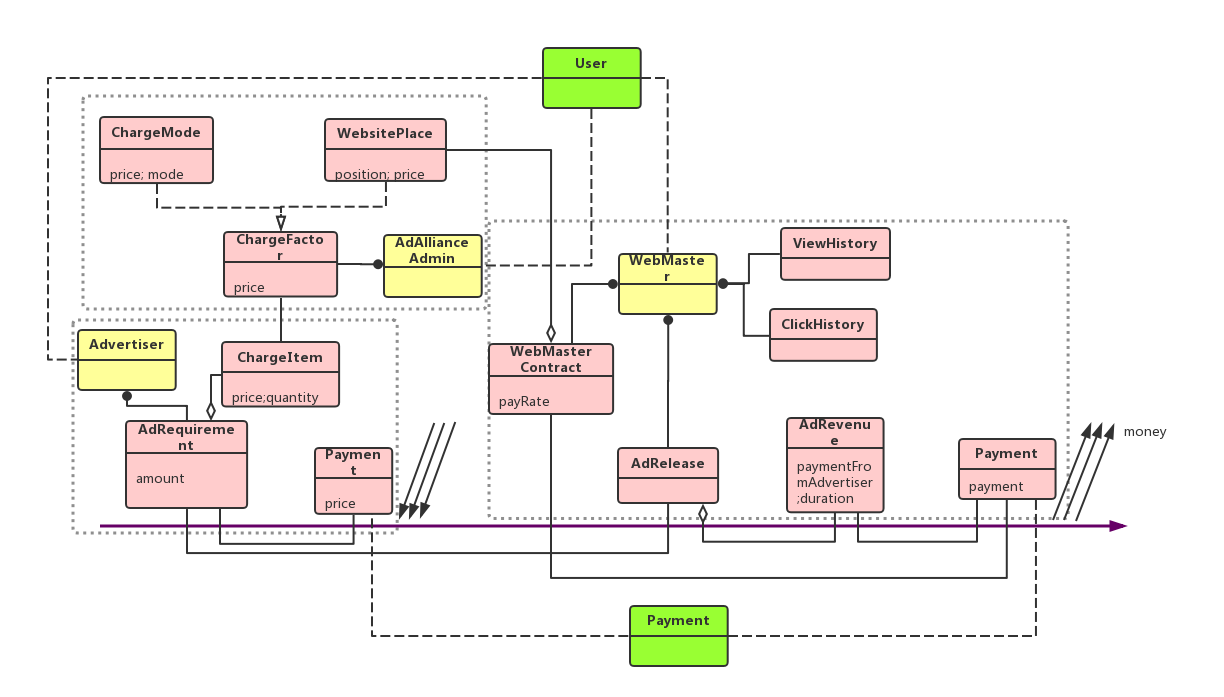
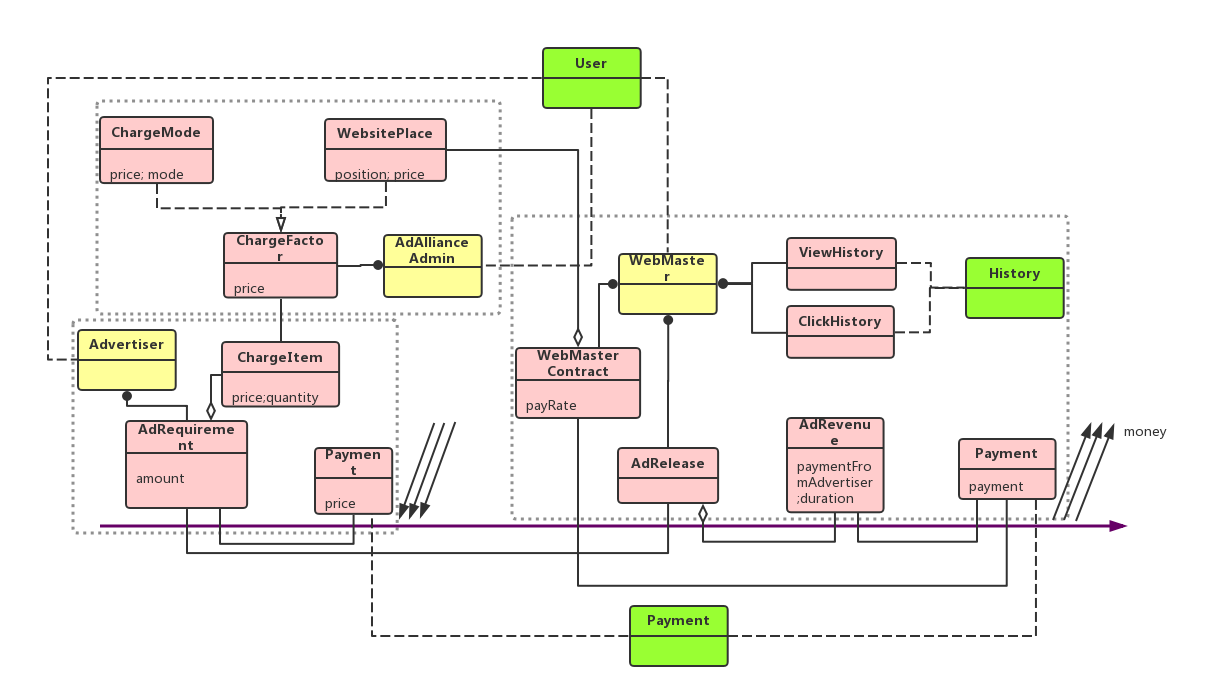
api: ad charge platform - charge factors, webmaster contracts, histories  related api

diff --git a/api/adChargePlatform/doc/api.html b/api/adChargePlatform/doc/api.html
@@ -144,7 +144,11 @@
       }
     </style></head><body data-spy="scroll" data-target="#sidebar"><div class="container"><div class="row"><div class="col-md-9" role="main"><div class="page-header"><h1>ad charge API documentation <small>version v1</small></h1><p></p></div><div class="panel panel-default"><div class="panel-heading"><h3 id="users_uid_ad_requirements" class="panel-title">/users/uid/ad_requirements</h3></div><div class="panel-body"><div class="panel-group"><div class="panel panel-white"><div class="panel-heading"><h4 class="panel-title"><a class="collapsed" data-toggle="collapse" href="#panel_users_uid_ad_requirements"><span class="parent"></span>/users/uid/ad_requirements</a> <span class="methods"><a href="#users_uid_ad_requirements_post"><span class="badge badge_post">post</span></a> <a href="#users_uid_ad_requirements_get"><span class="badge badge_get">get</span></a></span></h4></div><div id="panel_users_uid_ad_requirements" class="panel-collapse collapse"><div class="panel-body"><div class="list-group"><div onclick="window.location.href = '#users_uid_ad_requirements_post'" class="list-group-item"><span class="badge badge_post">post</span><div class="method_description"><p>advertiser can post ad requirements</p></div><div class="clearfix"></div></div><div onclick="window.location.href = '#users_uid_ad_requirements_get'" class="list-group-item"><span class="badge badge_get">get</span><div class="method_description"><p>advertiser can get all ad requirements</p></div><div class="clearfix"></div></div></div></div></div><div class="modal fade" tabindex="0" id="users_uid_ad_requirements_post"><div class="modal-dialog"><div class="modal-content"><div class="modal-header"><button type="button" class="close" data-dismiss="modal" aria-hidden="true">&times;</button><h4 class="modal-title" id="myModalLabel"><span class="badge badge_post">post</span> <span class="parent"></span>/users/uid/ad_requirements</h4></div><div class="modal-body"><div class="alert alert-info"><p>advertiser can post ad requirements</p></div><ul class="nav nav-tabs"><li class="active"><a href="#users_uid_ad_requirements_post_request" data-toggle="tab">Request</a></li><li><a href="#users_uid_ad_requirements_post_response" data-toggle="tab">Response</a></li></ul><div class="tab-content"><div class="tab-pane active" id="users_uid_ad_requirements_post_request"><h3>Body</h3><p><strong>Type: application/json</strong></p><p><strong>Example</strong>:</p><pre><code>{
 	"ad_content": "ad_content id",
-	"charge_items": ["itemId", "itemId"]
+	"charge_items": ["itemId", "itemId"],
+	"websites":[
+		"tieba.baidu.com",
+		"jingyan.baidu.com"
+	]
 }</code></pre></div><div class="tab-pane" id="users_uid_ad_requirements_post_response"><h2>HTTP status code <a href="http://httpstatus.es/201" target="_blank">201</a></h2><h3>Headers</h3><ul><li><strong>location</strong>: <em>(string)</em><p><strong>Example</strong>:</p><pre>users/uid/ad_requirements/adid</pre></li></ul><h2>HTTP status code <a href="http://httpstatus.es/400" target="_blank">400</a></h2><h2>HTTP status code <a href="http://httpstatus.es/403" target="_blank">403</a></h2><p>current user is not uid</p></div></div></div></div></div></div><div class="modal fade" tabindex="0" id="users_uid_ad_requirements_get"><div class="modal-dialog"><div class="modal-content"><div class="modal-header"><button type="button" class="close" data-dismiss="modal" aria-hidden="true">&times;</button><h4 class="modal-title" id="myModalLabel"><span class="badge badge_get">get</span> <span class="parent"></span>/users/uid/ad_requirements</h4></div><div class="modal-body"><div class="alert alert-info"><p>advertiser can get all ad requirements</p></div><ul class="nav nav-tabs"><li class="active"><a href="#users_uid_ad_requirements_get_response" data-toggle="tab">Response</a></li></ul><div class="tab-content"><div class="tab-pane active" id="users_uid_ad_requirements_get_response"><h2>HTTP status code <a href="http://httpstatus.es/200" target="_blank">200</a></h2><h3>Body</h3><p><strong>Type: application/json</strong></p><p><strong>Example</strong>:</p><pre><code>[{
 	"id": "id fo ad requirement",
 	"total_price": 4324,
@@ -166,14 +170,18 @@
 		},
 		{
 			"id": "item id2",
-			"charge_factor": "factor id, eg. banner_and_homepage_of_tieba.baidu.com_id",
+			"charge_factor": "factor id, eg. banner_and_homepage_id",
 			"quantity": 1	
 		},
 		{
 			"id": "item id3",
-			"charge_factor": "factor id, eg. sidebar_of_tieba.baidu.com_id",
+			"charge_factor": "factor id, eg. sidebar_id",
 			"quantity": 1	
 		}
+	],
+	"websites":[
+		"tieba.baidu.com",
+		"jingyan.baidu.com"
 	],
 	"links": [{
 		"rel": "self",
@@ -183,4 +191,118 @@
 	"account": "bankcard id",
 	"password": "xxxx",
 	"price": 4324
-}</code></pre></div><div class="tab-pane" id="users_uid_ad_requirements_adid_payment_post_response"><h2>HTTP status code <a href="http://httpstatus.es/201" target="_blank">201</a></h2><h3>Headers</h3><ul><li><strong>location</strong>: <em>(string)</em><p><strong>Example</strong>:</p><pre>users/uid/ad_requirements/adid</pre></li></ul><h2>HTTP status code <a href="http://httpstatus.es/400" target="_blank">400</a></h2><h2>HTTP status code <a href="http://httpstatus.es/403" target="_blank">403</a></h2><p>current user is not uid</p><h2>HTTP status code <a href="http://httpstatus.es/404" target="_blank">404</a></h2><p>adid not exists;</p><h2>HTTP status code <a href="http://httpstatus.es/409" target="_blank">409</a></h2><p>has paid before</p></div></div></div></div></div></div></div></div></div></div></div><div class="col-md-3"><div id="sidebar" class="hidden-print affix" role="complementary"><ul class="nav nav-pills nav-stacked"><li><a href="#users_uid_ad_requirements">/users/uid/ad_requirements</a></li></ul></div></div></div></div></body></html>
+}</code></pre></div><div class="tab-pane" id="users_uid_ad_requirements_adid_payment_post_response"><h2>HTTP status code <a href="http://httpstatus.es/201" target="_blank">201</a></h2><h3>Headers</h3><ul><li><strong>location</strong>: <em>(string)</em><p><strong>Example</strong>:</p><pre>users/uid/ad_requirements/adid</pre></li></ul><h2>HTTP status code <a href="http://httpstatus.es/400" target="_blank">400</a></h2><h2>HTTP status code <a href="http://httpstatus.es/403" target="_blank">403</a></h2><p>current user is not uid</p><h2>HTTP status code <a href="http://httpstatus.es/404" target="_blank">404</a></h2><p>adid not exists;</p><h2>HTTP status code <a href="http://httpstatus.es/409" target="_blank">409</a></h2><p>has paid before</p></div></div></div></div></div></div></div></div></div></div><div class="panel panel-default"><div class="panel-heading"><h3 id="charge_factors" class="panel-title">/charge_factors</h3></div><div class="panel-body"><div class="panel-group"><div class="panel panel-white"><div class="panel-heading"><h4 class="panel-title"><a class="collapsed" data-toggle="collapse" href="#panel_charge_factors_charge_modes"><span class="parent">/charge_factors</span>/charge_modes</a> <span class="methods"><a href="#charge_factors_charge_modes_post"><span class="badge badge_post">post</span></a> <a href="#charge_factors_charge_modes_get"><span class="badge badge_get">get</span></a></span></h4></div><div id="panel_charge_factors_charge_modes" class="panel-collapse collapse"><div class="panel-body"><div class="list-group"><div onclick="window.location.href = '#charge_factors_charge_modes_post'" class="list-group-item"><span class="badge badge_post">post</span><div class="method_description"><p>ad alliance admin add a new charge mode for advertiser to choose.</p></div><div class="clearfix"></div></div><div onclick="window.location.href = '#charge_factors_charge_modes_get'" class="list-group-item"><span class="badge badge_get">get</span><div class="method_description"><p>user can get all charge modes available</p></div><div class="clearfix"></div></div></div></div></div><div class="modal fade" tabindex="0" id="charge_factors_charge_modes_post"><div class="modal-dialog"><div class="modal-content"><div class="modal-header"><button type="button" class="close" data-dismiss="modal" aria-hidden="true">&times;</button><h4 class="modal-title" id="myModalLabel"><span class="badge badge_post">post</span> <span class="parent">/charge_factors</span>/charge_modes</h4></div><div class="modal-body"><div class="alert alert-info"><p>ad alliance admin add a new charge mode for advertiser to choose.</p></div><ul class="nav nav-tabs"><li class="active"><a href="#charge_factors_charge_modes_post_request" data-toggle="tab">Request</a></li><li><a href="#charge_factors_charge_modes_post_response" data-toggle="tab">Response</a></li></ul><div class="tab-content"><div class="tab-pane active" id="charge_factors_charge_modes_post_request"><h3>Body</h3><p><strong>Type: application/json</strong></p><p><strong>Example</strong>:</p><pre><code>{
+	"type": "CPT | CPC | CPM",
+	"unitPrice": 15,
+	"description": "..."
+}</code></pre></div><div class="tab-pane" id="charge_factors_charge_modes_post_response"><h2>HTTP status code <a href="http://httpstatus.es/201" target="_blank">201</a></h2><h3>Headers</h3><ul><li><strong>location</strong>: <em>(string)</em><p><strong>Example</strong>:</p><pre>charge_factors/charge_modes</pre></li></ul><h2>HTTP status code <a href="http://httpstatus.es/400" target="_blank">400</a></h2><h2>HTTP status code <a href="http://httpstatus.es/403" target="_blank">403</a></h2><p>current user is not admin</p></div></div></div></div></div></div><div class="modal fade" tabindex="0" id="charge_factors_charge_modes_get"><div class="modal-dialog"><div class="modal-content"><div class="modal-header"><button type="button" class="close" data-dismiss="modal" aria-hidden="true">&times;</button><h4 class="modal-title" id="myModalLabel"><span class="badge badge_get">get</span> <span class="parent">/charge_factors</span>/charge_modes</h4></div><div class="modal-body"><div class="alert alert-info"><p>user can get all charge modes available</p></div><ul class="nav nav-tabs"><li class="active"><a href="#charge_factors_charge_modes_get_response" data-toggle="tab">Response</a></li></ul><div class="tab-content"><div class="tab-pane active" id="charge_factors_charge_modes_get_response"><h2>HTTP status code <a href="http://httpstatus.es/200" target="_blank">200</a></h2><h3>Body</h3><p><strong>Type: application/json</strong></p><p><strong>Example</strong>:</p><pre><code>[
+	{
+		"id": "xxx",
+		"type": "CPC",
+		"description": "charge by a click",
+		"unitPrice": 0.01,
+		"createdAt": 798789
+	},
+	{
+		"id": "xxx",
+		"type": "CPM",
+		"description": "charge by a thousand views",
+		"unitPrice": 0.01,
+		"createdAt": 798789
+	},
+	{
+		"id": "xxx",
+		"type": "CPT_DAY",
+		"description": "charge by day",
+		"unitPrice": 3,
+		"createdAt": 798789
+	},
+	{
+		"id": "xxx",
+		"type": "CPT_WEEK",
+		"description": "charge by week",
+		"unitPrice": 10,
+		"createdAt": 798789
+	},
+	{
+		"id": "xxx",
+		"type": "CPT_MONTH",
+		"description": "charge by month",
+		"unitPrice": 35,
+		"createdAt": 798789
+	}
+]</code></pre></div></div></div></div></div></div></div><div class="panel panel-white"><div class="panel-heading"><h4 class="panel-title"><a class="collapsed" data-toggle="collapse" href="#panel_charge_factors_website_places"><span class="parent">/charge_factors</span>/website_places</a> <span class="methods"><a href="#charge_factors_website_places_post"><span class="badge badge_post">post</span></a> <a href="#charge_factors_website_places_get"><span class="badge badge_get">get</span></a></span></h4></div><div id="panel_charge_factors_website_places" class="panel-collapse collapse"><div class="panel-body"><div class="list-group"><div onclick="window.location.href = '#charge_factors_website_places_post'" class="list-group-item"><span class="badge badge_post">post</span><div class="method_description"><p>ad alliance admin add a new web place for advertiser and webmaster to choose.</p></div><div class="clearfix"></div></div><div onclick="window.location.href = '#charge_factors_website_places_get'" class="list-group-item"><span class="badge badge_get">get</span><div class="method_description"><p>user can get all web places available</p></div><div class="clearfix"></div></div></div></div></div><div class="modal fade" tabindex="0" id="charge_factors_website_places_post"><div class="modal-dialog"><div class="modal-content"><div class="modal-header"><button type="button" class="close" data-dismiss="modal" aria-hidden="true">&times;</button><h4 class="modal-title" id="myModalLabel"><span class="badge badge_post">post</span> <span class="parent">/charge_factors</span>/website_places</h4></div><div class="modal-body"><div class="alert alert-info"><p>ad alliance admin add a new web place for advertiser and webmaster to choose.</p></div><ul class="nav nav-tabs"><li class="active"><a href="#charge_factors_website_places_post_request" data-toggle="tab">Request</a></li><li><a href="#charge_factors_website_places_post_response" data-toggle="tab">Response</a></li></ul><div class="tab-content"><div class="tab-pane active" id="charge_factors_website_places_post_request"><h3>Body</h3><p><strong>Type: application/json</strong></p><p><strong>Example</strong>:</p><pre><code>{
+	"position": "BANNER | SIDEBAR | BOTTOM_BANNER",
+	"description": "charge by the position of a web page that the ad can be put in",
+	"unitPrice": 0.1
+}</code></pre></div><div class="tab-pane" id="charge_factors_website_places_post_response"><h2>HTTP status code <a href="http://httpstatus.es/201" target="_blank">201</a></h2><h3>Headers</h3><ul><li><strong>location</strong>: <em>(string)</em><p><strong>Example</strong>:</p><pre>charge_factors/website_places</pre></li></ul><h2>HTTP status code <a href="http://httpstatus.es/400" target="_blank">400</a></h2><h2>HTTP status code <a href="http://httpstatus.es/403" target="_blank">403</a></h2><p>current user is not admin</p></div></div></div></div></div></div><div class="modal fade" tabindex="0" id="charge_factors_website_places_get"><div class="modal-dialog"><div class="modal-content"><div class="modal-header"><button type="button" class="close" data-dismiss="modal" aria-hidden="true">&times;</button><h4 class="modal-title" id="myModalLabel"><span class="badge badge_get">get</span> <span class="parent">/charge_factors</span>/website_places</h4></div><div class="modal-body"><div class="alert alert-info"><p>user can get all web places available</p></div><ul class="nav nav-tabs"><li class="active"><a href="#charge_factors_website_places_get_response" data-toggle="tab">Response</a></li></ul><div class="tab-content"><div class="tab-pane active" id="charge_factors_website_places_get_response"><h2>HTTP status code <a href="http://httpstatus.es/200" target="_blank">200</a></h2><h3>Body</h3><p><strong>Type: application/json</strong></p><p><strong>Example</strong>:</p><pre><code>[
+	{
+		"id": "xxx",
+		"position": "BANNER",
+		"description": "charge by the banner of a web page that the ad can be put in",
+		"unitPrice": 0.1,
+		"createdAt": 798789
+	},
+	{
+		"id": "xxx",
+		"position": "SIDEBAR",
+		"description": "charge by the sidebar of a web page that the ad can be put in",
+		"unitPrice": 0.1,
+		"createdAt": 798789
+	}
+]</code></pre></div></div></div></div></div></div></div></div></div></div><div class="panel panel-default"><div class="panel-heading"><h3 id="users_uid_webmaster_contracts" class="panel-title">/users/uid/webmaster_contracts</h3></div><div class="panel-body"><div class="panel-group"><div class="panel panel-white"><div class="panel-heading"><h4 class="panel-title"><a class="collapsed" data-toggle="collapse" href="#panel_users_uid_webmaster_contracts"><span class="parent"></span>/users/uid/webmaster_contracts</a> <span class="methods"><a href="#users_uid_webmaster_contracts_post"><span class="badge badge_post">post</span></a></span></h4></div><div id="panel_users_uid_webmaster_contracts" class="panel-collapse collapse"><div class="panel-body"><div class="list-group"><div onclick="window.location.href = '#users_uid_webmaster_contracts_post'" class="list-group-item"><span class="badge badge_post">post</span><div class="method_description"><p>webmaster can apply for joining the web with some conditions.</p></div><div class="clearfix"></div></div></div></div></div><div class="modal fade" tabindex="0" id="users_uid_webmaster_contracts_post"><div class="modal-dialog"><div class="modal-content"><div class="modal-header"><button type="button" class="close" data-dismiss="modal" aria-hidden="true">&times;</button><h4 class="modal-title" id="myModalLabel"><span class="badge badge_post">post</span> <span class="parent"></span>/users/uid/webmaster_contracts</h4></div><div class="modal-body"><div class="alert alert-info"><p>webmaster can apply for joining the web with some conditions.</p></div><ul class="nav nav-tabs"><li class="active"><a href="#users_uid_webmaster_contracts_post_request" data-toggle="tab">Request</a></li><li><a href="#users_uid_webmaster_contracts_post_response" data-toggle="tab">Response</a></li></ul><div class="tab-content"><div class="tab-pane active" id="users_uid_webmaster_contracts_post_request"><h3>Body</h3><p><strong>Type: application/json</strong></p><p><strong>Example</strong>:</p><pre><code>{
+	"website": "tieba.baidu.com",
+	"places": [
+		{
+			"place": "BANNER | BOTTOM_BANNER",
+			"rate": 4
+		},
+		{
+			"place": "BOTTOM_BANNER",
+			"rate": 3
+		},
+		{
+			"place": "SIDEBAR",
+			"rate": 2
+		}
+	],
+	"alexa": 50,
+	"yield": 0.7
+}</code></pre></div><div class="tab-pane" id="users_uid_webmaster_contracts_post_response"><h2>HTTP status code <a href="http://httpstatus.es/201" target="_blank">201</a></h2><h3>Headers</h3><ul><li><strong>location</strong>: <em>(string)</em><p><strong>Example</strong>:</p><pre>users/uid/webmaster_contract/wcid</pre></li></ul><h2>HTTP status code <a href="http://httpstatus.es/403" target="_blank">403</a></h2><p>current user is not uid</p></div></div></div></div></div></div></div><div class="panel panel-white"><div class="panel-heading"><h4 class="panel-title"><a class="collapsed" data-toggle="collapse" href="#panel_users_uid_webmaster_contracts_wcid"><span class="parent">/users/uid/webmaster_contracts</span>/wcid</a> <span class="methods"><a href="#users_uid_webmaster_contracts_wcid_get"><span class="badge badge_get">get</span></a></span></h4></div><div id="panel_users_uid_webmaster_contracts_wcid" class="panel-collapse collapse"><div class="panel-body"><div class="list-group"><div onclick="window.location.href = '#users_uid_webmaster_contracts_wcid_get'" class="list-group-item"><span class="badge badge_get">get</span><div class="method_description"><p>webmaster can get some contract detail</p></div><div class="clearfix"></div></div></div></div></div><div class="modal fade" tabindex="0" id="users_uid_webmaster_contracts_wcid_get"><div class="modal-dialog"><div class="modal-content"><div class="modal-header"><button type="button" class="close" data-dismiss="modal" aria-hidden="true">&times;</button><h4 class="modal-title" id="myModalLabel"><span class="badge badge_get">get</span> <span class="parent">/users/uid/webmaster_contracts</span>/wcid</h4></div><div class="modal-body"><div class="alert alert-info"><p>webmaster can get some contract detail</p></div><ul class="nav nav-tabs"><li class="active"><a href="#users_uid_webmaster_contracts_wcid_get_request" data-toggle="tab">Request</a></li><li><a href="#users_uid_webmaster_contracts_wcid_get_response" data-toggle="tab">Response</a></li></ul><div class="tab-content"><div class="tab-pane active" id="users_uid_webmaster_contracts_wcid_get_request"><h3>Body</h3><p><strong>Type: application/json</strong></p><p><strong>Example</strong>:</p><pre><code>{
+	"id": "xxx",
+	"website": "tieba.baidu.com",
+	"places": [
+		{
+			"place": "BANNER | BOTTOM_BANNER",
+			"rate": 4
+		},
+		{
+			"place": "BOTTOM_BANNER",
+			"rate": 3
+		},
+		{
+			"place": "SIDEBAR",
+			"rate": 2
+		}
+	],
+	"alexa": 50,
+	"yield": 0.7,
+	"createAt": 324324,
+	"links": [{
+		"rel": "self",
+		"uri": "users/uid/website_contract/wcid"
+	}]
+}</code></pre></div><div class="tab-pane" id="users_uid_webmaster_contracts_wcid_get_response"><h2>HTTP status code <a href="http://httpstatus.es/200" target="_blank">200</a></h2><h2>HTTP status code <a href="http://httpstatus.es/403" target="_blank">403</a></h2><p>current user is not uid</p></div></div></div></div></div></div></div></div></div></div><div class="panel panel-default"><div class="panel-heading"><h3 id="users_uid_histories" class="panel-title">/users/uid/histories</h3></div><div class="panel-body"><div class="panel-group"><div class="panel panel-white"><div class="panel-heading"><h4 class="panel-title"><a class="collapsed" data-toggle="collapse" href="#panel_users_uid_histories"><span class="parent"></span>/users/uid/histories</a> <span class="methods"><a href="#users_uid_histories_get"><span class="badge badge_get">get</span></a></span></h4></div><div id="panel_users_uid_histories" class="panel-collapse collapse"><div class="panel-body"><div class="list-group"><div onclick="window.location.href = '#users_uid_histories_get'" class="list-group-item"><span class="badge badge_get">get</span><div class="method_description"><p>get the click and view histories of website</p></div><div class="clearfix"></div></div></div></div></div><div class="modal fade" tabindex="0" id="users_uid_histories_get"><div class="modal-dialog"><div class="modal-content"><div class="modal-header"><button type="button" class="close" data-dismiss="modal" aria-hidden="true">&times;</button><h4 class="modal-title" id="myModalLabel"><span class="badge badge_get">get</span> <span class="parent"></span>/users/uid/histories</h4></div><div class="modal-body"><div class="alert alert-info"><p>get the click and view histories of website</p></div><ul class="nav nav-tabs"><li class="active"><a href="#users_uid_histories_get_request" data-toggle="tab">Request</a></li><li><a href="#users_uid_histories_get_response" data-toggle="tab">Response</a></li></ul><div class="tab-content"><div class="tab-pane active" id="users_uid_histories_get_request"><h3>Query Parameters</h3><ul><li><strong>action</strong>: <em>(string)</em><p><strong>Example</strong>:</p><pre>CLICK | VIEW</pre></li><li><strong>website</strong>: <em>(string)</em><p><strong>Example</strong>:</p><pre>tieba.baidu.com</pre></li><li><strong>startDate</strong>: <em>(integer)</em></li><li><strong>endDate</strong>: <em>(integer)</em></li><li><strong>ad</strong>: <em>(string)</em><p>the ad_requirement id</p></li></ul></div><div class="tab-pane" id="users_uid_histories_get_response"><h2>HTTP status code <a href="http://httpstatus.es/200" target="_blank">200</a></h2><h3>Body</h3><p><strong>Type: application/json</strong></p><p><strong>Example</strong>:</p><pre><code>[
+	{
+		"action": "CLICK",
+		"createdAt": 32423,
+		"website": "tieba.baidu.com",
+		"ad": "ad requirement id1"
+	},
+	{
+		"action": "VIEW",
+		"createdAt": 32423,
+		"website": "jingyan.baidu.com",
+		"ad": "ad requirement id2"
+	}
+]</code></pre><h2>HTTP status code <a href="http://httpstatus.es/403" target="_blank">403</a></h2><p>current user is not uid or admin</p></div></div></div></div></div></div></div></div></div></div></div><div class="col-md-3"><div id="sidebar" class="hidden-print affix" role="complementary"><ul class="nav nav-pills nav-stacked"><li><a href="#users_uid_ad_requirements">/users/uid/ad_requirements</a></li><li><a href="#charge_factors">/charge_factors</a></li><li><a href="#users_uid_webmaster_contracts">/users/uid/webmaster_contracts</a></li><li><a href="#users_uid_histories">/users/uid/histories</a></li></ul></div></div></div></div></body></html>
